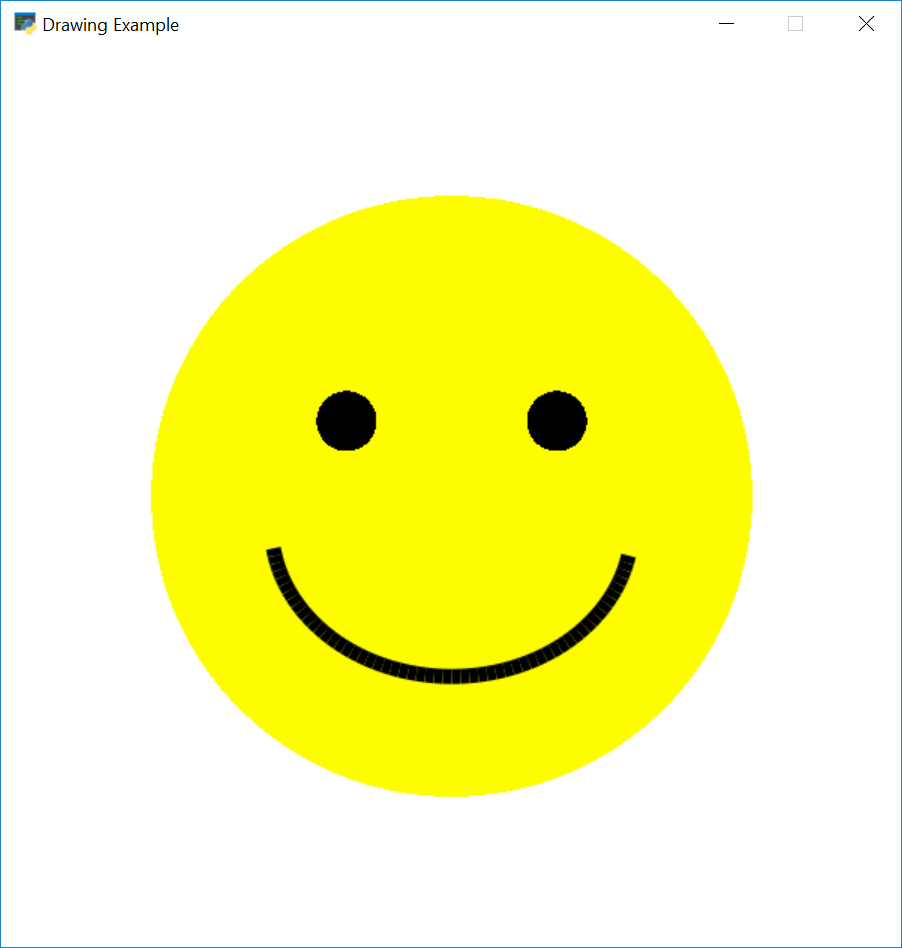
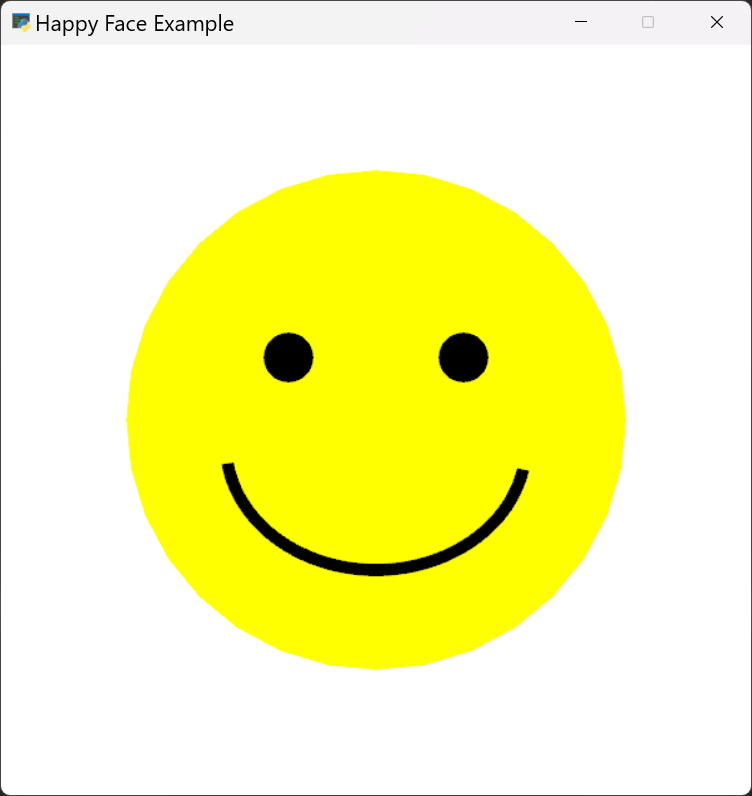
Work on example code and docs

diff --git a/arcade/examples/happy_face.py b/arcade/examples/happy_face.py
@@ -44,12 +44,13 @@ arcade.draw_circle_filled(x, y, radius, arcade.color.BLACK)
 # Draw the smile
 x = 300
 y = 280
-width = 120
-height = 100
+width = 240
+height = 200
 start_angle = 190
 end_angle = 350
+line_width = 20
 arcade.draw_arc_outline(x, y, width, height, arcade.color.BLACK,
-                        start_angle, end_angle, 10)
+                        start_angle, end_angle, line_width)
 
 # Finish drawing and display the result
 arcade.finish_render()

diff --git a/setup.py b/setup.py
@@ -53,15 +53,13 @@ REQUIREMENTS_DEV = [
 # PYGMENTS 2.12.0 does not work as of 24-May-2022
 
 REQUIREMENTS_DOCS = [
-    "Sphinx==6.0.0",
     "Pygments==2.14.0",
-    "sphinx-copybutton==0.5.1",
-    "sphinx-sitemap==2.5.0",
-    "dirsync==2.2.5",
-    "pyyaml==6.0",
     "docutils==0.19",
     "furo",
-    "dirsync",
+    "pyyaml==6.0",
+    "sphinx==6.1.3",
+    "sphinx-copybutton==0.5.1",
+    "sphinx-sitemap==2.5.0",
     "wheel",
 ]
 

diff --git a/doc/example_code/how_to_examples/happy_face.rst b/doc/example_code/how_to_examples/happy_face.rst
@@ -5,15 +5,26 @@
 Happy Face
 ==========
 
-This example shows how to use the Arcade drawing commands.
+This example shows how to use the Arcade drawing commands. This is one of the simplest things that can be done with
+Arcade and a great way to get started learning how to do graphics.
 
+For a more detailed step-through on how to draw with Python Arcade see
+`How to Draw with Your Computer <https://learn.arcade.academy/en/latest/chapters/05_drawing/drawing.html>`_.
+
+For ideas on what to do, see:
+
+* `Draw a Picture <https://learn.arcade.academy/en/latest/labs/lab_02_drawing/drawing.html>`_
+* `Drawing with Functions <https://learn.arcade.academy/en/latest/labs/lab_03_function_drawing/function_drawing.html>`_
+
+To look up all the available commands search for the Drawing Primitives in the :ref:`quick_index`. To see some of these
+commands in action see :ref:`drawing_primitives`.
+
+To keep things simple, this example does not have many of the things commonly shown in the :ref:`starting_template`.
 
 .. image:: happy_face.png
-    :width: 600px
+    :width: 400px
     :align: center
     :alt: Screenshot of drawing example program
-
-
 
 .. literalinclude:: ../../../arcade/examples/happy_face.py
     :caption: happy_face.py

diff --git a/doc/example_code/how_to_examples/drawing_primitives.rst b/doc/example_code/how_to_examples/drawing_primitives.rst
@@ -9,6 +9,16 @@ This example shows how to use the drawing commands. It is a good place
 to start for new programmers because they do not need to know how to define
 functions or classes before drawing images.
 
+See :ref:`happy_face` for an example of drawing primitives in action.
+To keep things simple, this example does not have many of the things commonly shown in the :ref:`starting_template`.
+
+.. note::
+
+   The method of drawing shown here is simple, but it is very slow. Modern graphics typically draw in a 'batch',
+   a technique not shown in this example.
+
+To look up all the available commands search for the Drawing Primitives in the :ref:`quick_index`.
+
 .. image:: drawing_primitives.png
     :width: 600px
     :align: center
@@ -17,4 +27,3 @@ functions or classes before drawing images.
 .. literalinclude:: ../../../arcade/examples/drawing_primitives.py
     :caption: drawing_primitives.py
     :linenos:
-
